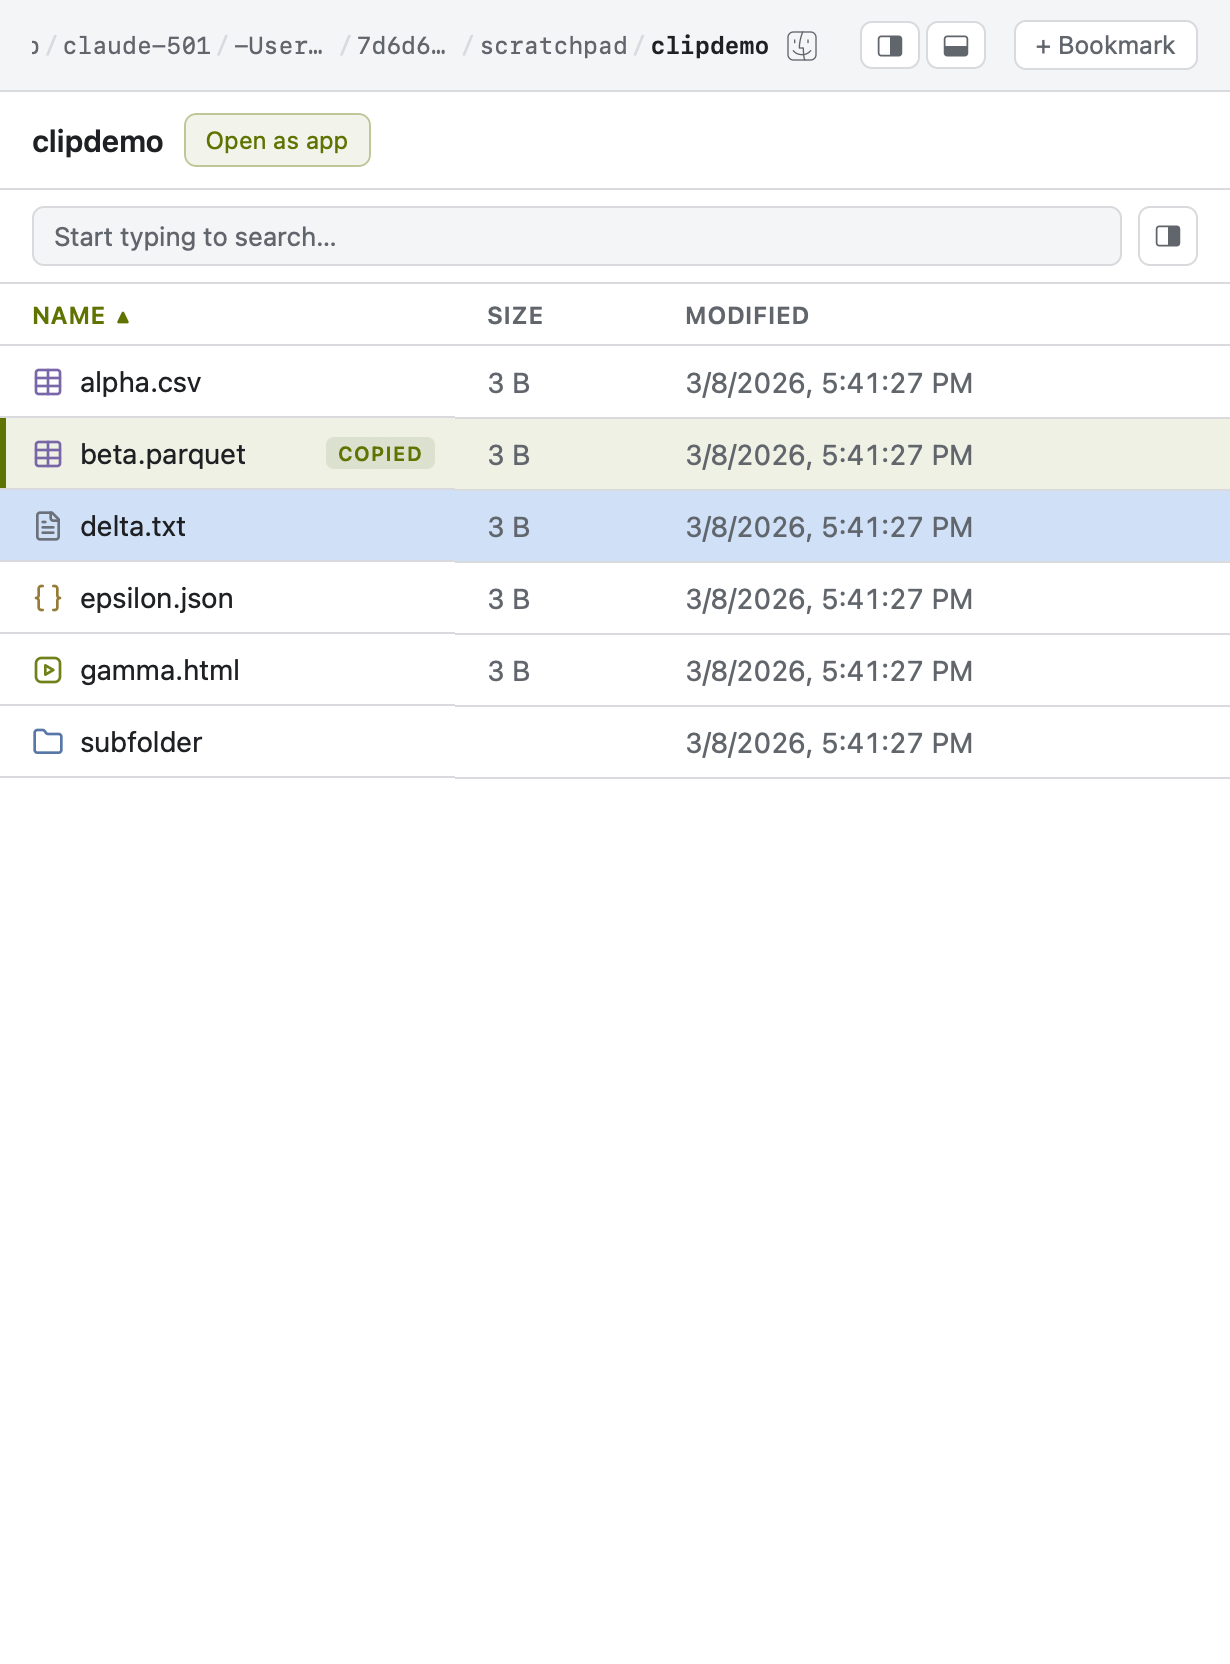
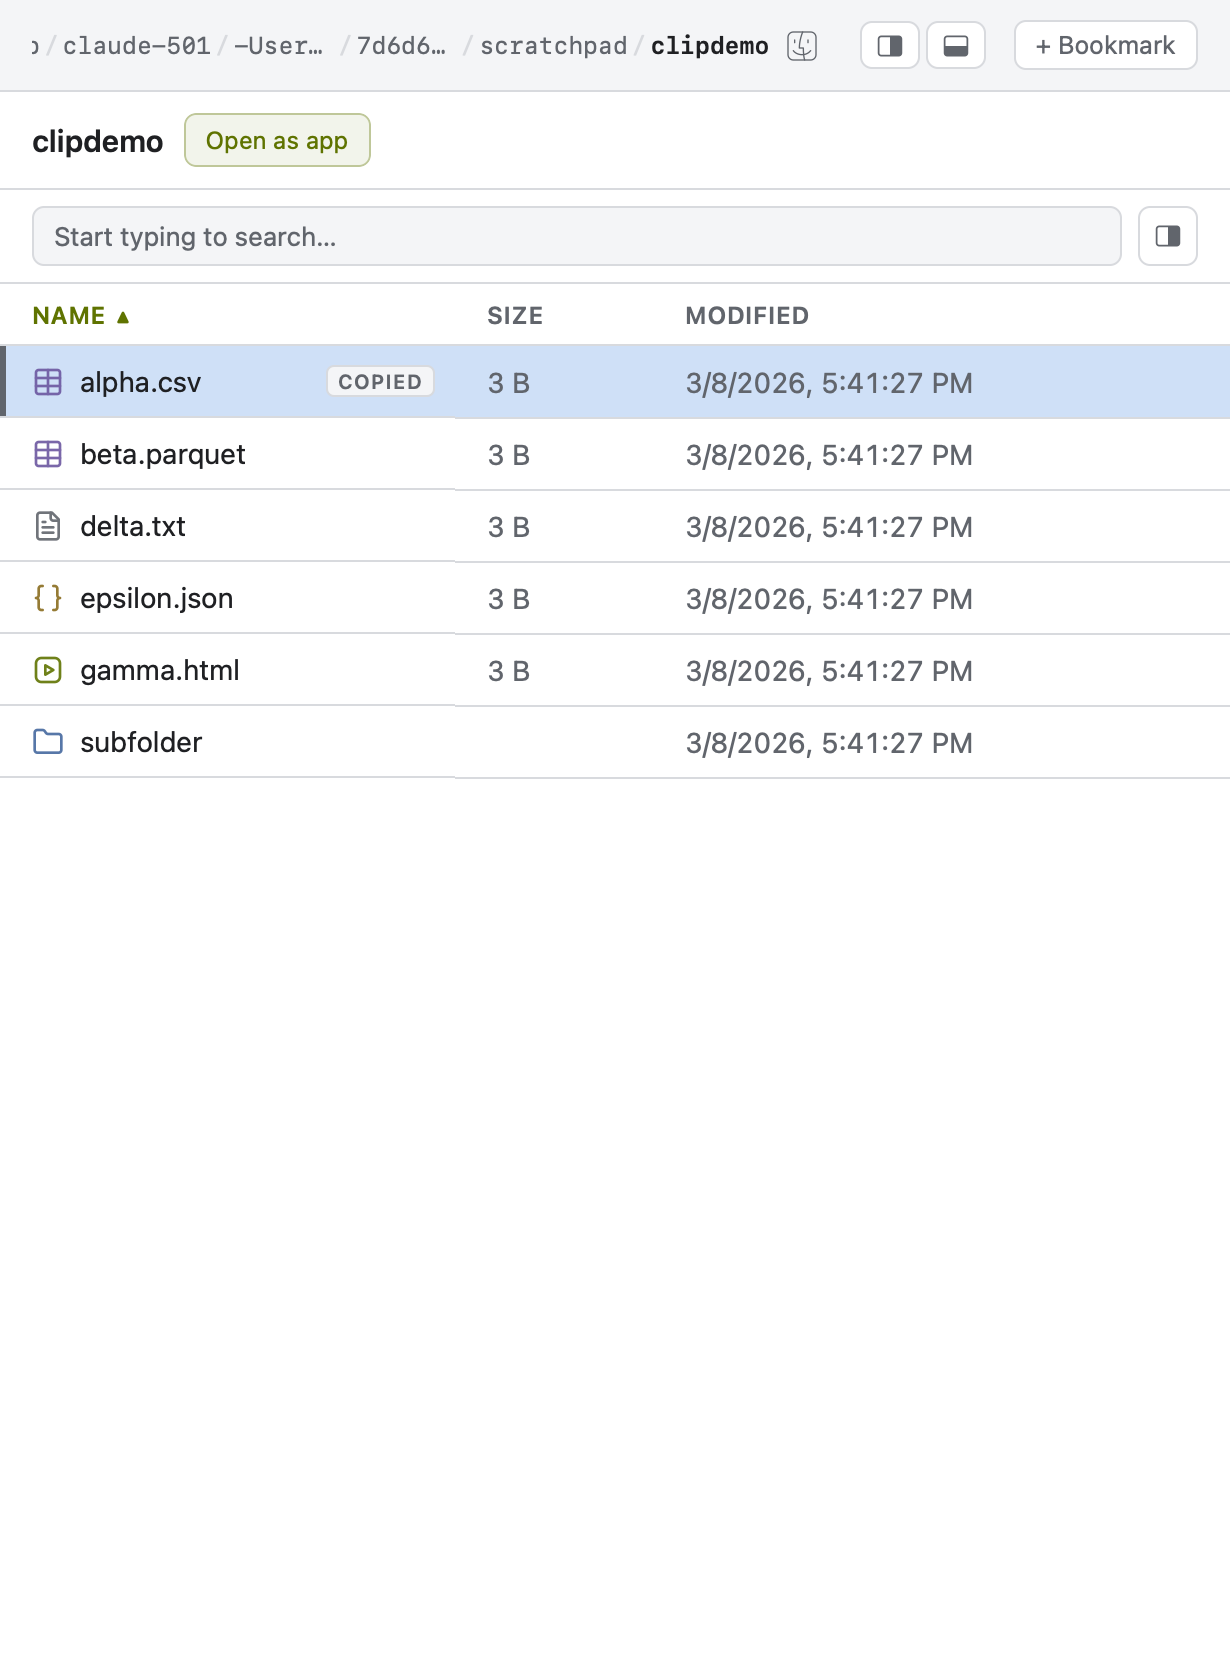
Clipboard marks: one muted grey for both ops, drop the accent
The accent copy treatment read as a highlight rather than as transient
state. Both badges are now the same muted grey on --bg-alt, and the copy
edge bar drops to --fg-muted like the cut one; the op is told by the
border/bar style alone — solid for copy, dashed for cut.

The accent row wash on a copied row goes with it, which also removes the
:not(.selected) specificity dance: the row background is left entirely to
:hover and .selected, and the edge bar (an inset shadow on the first cell)
still survives every combination.

Changed region(s): [[0.0, 0.1875, 1.0, 0.3438]]

diff --git a/frontend/src/shell.css b/frontend/src/shell.css
@@ -1750,29 +1750,18 @@ table.listing-table tr.row.cut > td:first-child {
 }
 
 /* A row whose entry is on the clipboard as a COPY. Dimming would be wrong here
-   (nothing is leaving), so a copy is marked positively: an accent bar down the
-   row's left edge plus a faint accent wash.
+   (nothing is leaving), so a copy is marked positively — a SOLID bar down the
+   row's left edge, against the cut's dashed one.
  *
- * Coexistence with .selected / :hover is by construction, not by luck:
- *   • the wash is on the ROW background, which .selected also owns, so it is
- *     scoped `:not(.selected)` — a selected+copied row keeps --sel and still
- *     reads as selected. The :not() also lifts specificity to (0,4,2), above
- *     `tr.row:hover` at (0,3,2), so hovering an unselected copied row deepens
- *     the accent wash (its own :hover rule below) instead of flattening it to
- *     --bg-alt.
- *   • the edge bar is an inset shadow on the first CELL, a surface neither the
- *     row background nor the hover/selected rules touch — so the mark survives
- *     every combination, including selected+copied.
- * Both colours are token-derived (rgba(var(--accent-rgb), …) / var(--accent)),
- * so they follow the light palette's olive-lime accent as-is. */
-table.listing-table tr.row.copied:not(.selected) {
-  background: rgba(var(--accent-rgb), 0.1);
-}
-table.listing-table tr.row.copied:not(.selected):hover {
-  background: rgba(var(--accent-rgb), 0.18);
-}
+ * Deliberately the same muted grey as the cut bar, not the accent: an accent bar
+ * plus an accent row wash (both of which this used to carry) shouted, and a copy
+ * is transient state, not a highlight. With the wash gone the row background is
+ * left entirely to :hover and .selected, so there is no specificity dance to get
+ * right; the bar is an inset shadow on the first CELL, a surface neither the row
+ * background nor the hover/selected rules touch, so the mark survives every
+ * combination including selected+copied. */
 table.listing-table tr.row.copied > td:first-child {
-  box-shadow: inset 3px 0 0 var(--accent);
+  box-shadow: inset 3px 0 0 var(--fg-muted);
 }
 
 table.listing-table td.name {
@@ -1788,10 +1777,14 @@ table.listing-table td.name {
    (Listing.tsx ClipMark). This and the row styling above are the ONLY pending-
    clipboard UI — no chrome-level chip — so the badge carries the Esc-to-cancel
    tooltip, which is also why it must not get `pointer-events: none`. Small
-   caps-y type keeps it subordinate to the name it annotates. Copy leans on the
-   accent (matching its edge bar and wash); cut stays neutral because the row is
-   already faded and an accent would read as "highlighted", the opposite of
-   leaving.
+   caps-y type keeps it subordinate to the name it annotates.
+ *
+ * BOTH ops use the same muted grey on --bg-alt — the accent (which copy used to
+ * carry here and on its edge bar) read as a highlight rather than as transient
+ * state. The op is told by the border, matching the row's edge bar: solid for
+ * copy, dashed for cut. Opaque base, not a translucent wash: the badge is out of
+ * flow (below), so a long filename can run beneath it and a see-through pill
+ * would show that text through the label.
  *
  * Pinned to the name column's right edge rather than sitting inline after the
  * filename: the table is auto-layout, so an in-flow badge widens the name column
@@ -1809,25 +1802,17 @@ table.listing-table td.name {
   letter-spacing: 0.06em;
   text-transform: uppercase;
   line-height: 1;
-  padding: 3px 6px;
+  /* 2px + the 1px border = the 3px the pill reads as */
+  padding: 2px 5px;
   border-radius: 4px;
+  border: 1px solid var(--border);
+  color: var(--fg-muted);
+  background: var(--bg-alt);
   cursor: default;
   user-select: none;
 }
-/* Accent tint over an OPAQUE base, not a bare translucent wash: the badge is
-   out of flow (see above), so a long filename can run beneath it and a
-   see-through pill would show that text through the label. --bg-alt is the
-   row-hover surface, so the pill still reads as part of the row. */
-.clip-mark.copied {
-  color: var(--accent);
-  background: linear-gradient(rgba(var(--accent-rgb), 0.16), rgba(var(--accent-rgb), 0.16))
-    var(--bg-alt);
-}
 .clip-mark.cut {
-  color: var(--fg-muted);
-  background: var(--bg-alt);
-  border: 1px dashed var(--border);
-  padding: 2px 5px; /* offset the 1px border so both pills sit the same height */
+  border-style: dashed;
 }
 
 table.listing-table .icon {
